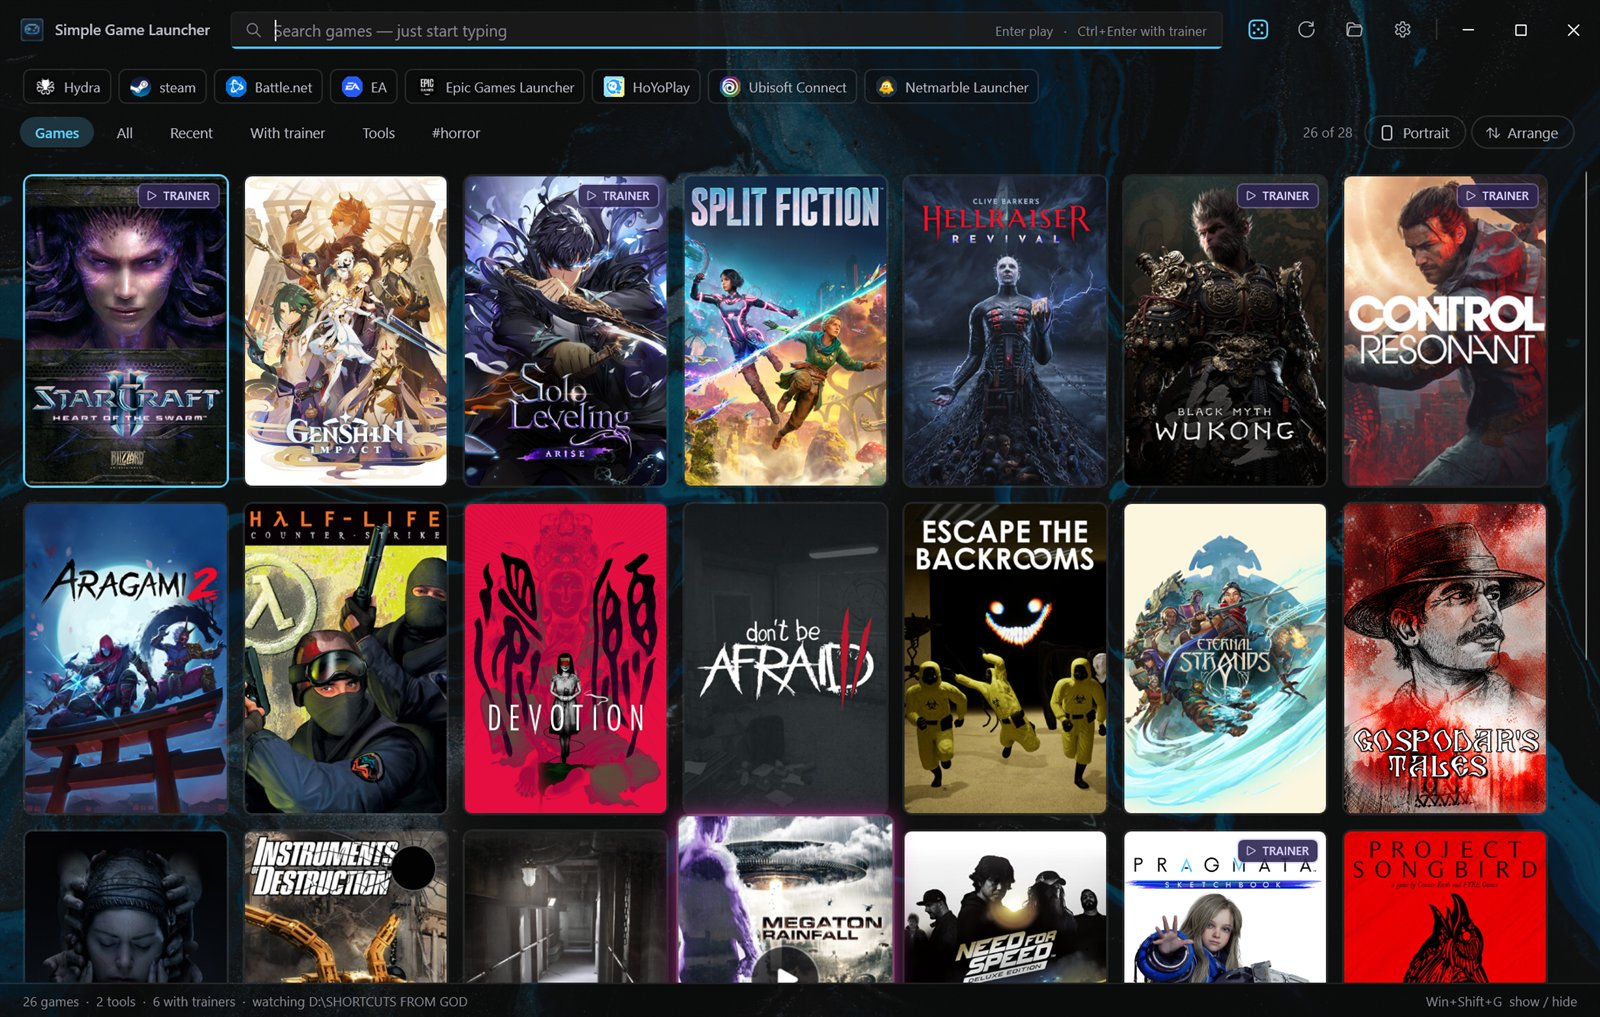
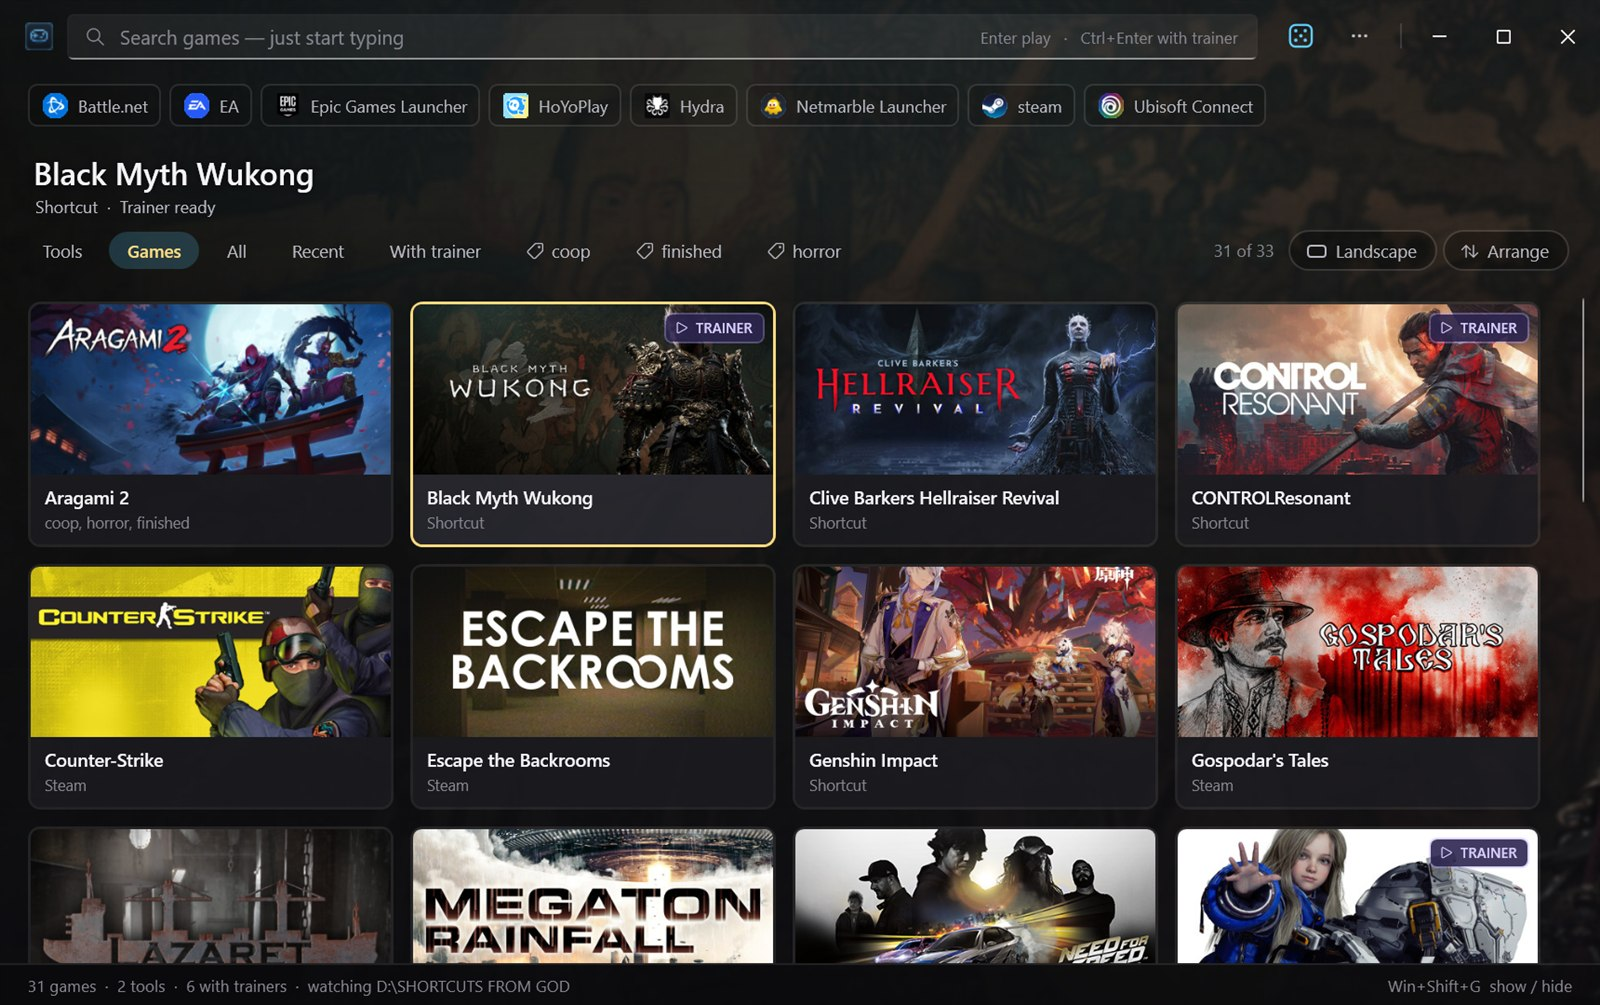
README tour with fresh screenshots; keep text readable over bright art
- README rewritten around the highlights: badges, "Why it rocks", what's
  new, and a tour with new screenshots of the game-art background,
  portrait cards, the ... menu, arrange mode and Settings -> Look.
- Bright hero art (e.g. Counter-Strike's yellow) is darkened by its
  measured brightness (HeroSoftShade), so the filters and search stay
  readable.
- The Landscape / Arrange chips get a dark tint for the same reason.

diff --git a/MainWindow.xaml b/MainWindow.xaml
@@ -117,13 +117,14 @@
             <Setter Property="Template">
                 <Setter.Value>
                     <ControlTemplate TargetType="Button">
-                        <Border x:Name="B" CornerRadius="14" Padding="12,5,13,5" Background="Transparent"
+                        <!-- Dark tint so the chips stay readable over bright hero art -->
+                        <Border x:Name="B" CornerRadius="14" Padding="12,5,13,5" Background="#47000000"
                                 BorderBrush="#1FFFFFFF" BorderThickness="1">
                             <ContentPresenter />
                         </Border>
                         <ControlTemplate.Triggers>
                             <Trigger Property="IsMouseOver" Value="True">
-                                <Setter TargetName="B" Property="Background" Value="#1AFFFFFF" />
+                                <Setter TargetName="B" Property="Background" Value="#33FFFFFF" />
                                 <Setter Property="Foreground" Value="{StaticResource TextBrush}" />
                             </Trigger>
                             <Trigger Property="IsPressed" Value="True">
@@ -511,11 +512,13 @@
                        RenderOptions.BitmapScalingMode="HighQuality" />
                 <Image x:Name="HeroB" Stretch="UniformToFill" VerticalAlignment="Top" Opacity="0"
                        RenderOptions.BitmapScalingMode="HighQuality" />
+                <!-- Extra shade for the blurred-cover fallback: a bright cover would otherwise wash out the text -->
+                <Rectangle x:Name="HeroSoftShade" Fill="#0E0E12" Opacity="0" />
                 <Rectangle>
                     <Rectangle.Fill>
                         <LinearGradientBrush StartPoint="0,0" EndPoint="0,1">
                             <GradientStop Color="#800E0E12" Offset="0" />
-                            <GradientStop Color="#330E0E12" Offset="0.2" />
+                            <GradientStop Color="#4D0E0E12" Offset="0.2" />
                             <GradientStop Color="#9E0E0E12" Offset="0.55" />
                             <GradientStop Color="#D90E0E12" Offset="1" />
                         </LinearGradientBrush>

diff --git a/MainWindow.xaml.cs b/MainWindow.xaml.cs
@@ -2526,6 +2526,9 @@ namespace GameLauncher
                 Animate(HeroLayer, OpacityProperty, 0, 300, ease);
                 return;
             }
+            // Bright art (a yellow Counter-Strike hero, a light cover blur) would wash out the text over it:
+            // the brighter the picture, the more extra shade.
+            Animate(HeroSoftShade, OpacityProperty, Math.Clamp((Brightness(img) - 0.22) * 1.5, 0, 0.62), 380, ease);
             var (front, back) = _heroFrontA ? (HeroA, HeroB) : (HeroB, HeroA);
             bool layerWasHidden = HeroLayer.Opacity < 0.01;
             back.Source = img;
@@ -2541,6 +2544,31 @@ namespace GameLauncher
             }
             _heroFrontA = !_heroFrontA;
             Animate(HeroLayer, OpacityProperty, 1, 300, ease);
+        }
+
+        static readonly System.Runtime.CompilerServices.ConditionalWeakTable<ImageSource, object> Brightnesses = new();
+
+        /// <summary>Average brightness (0–1) of an image, from a 32 px wide copy. Cached per image.</summary>
+        static double Brightness(ImageSource img)
+        {
+            if (img is not System.Windows.Media.Imaging.BitmapSource src || src.PixelWidth == 0) return 0;
+            if (Brightnesses.TryGetValue(img, out var cached)) return (double)cached;
+            double result = 0;
+            try
+            {
+                double k = Math.Min(1, 32.0 / src.PixelWidth);
+                var small = new System.Windows.Media.Imaging.FormatConvertedBitmap(
+                    new System.Windows.Media.Imaging.TransformedBitmap(src, new ScaleTransform(k, k)), PixelFormats.Bgra32, null, 0);
+                int w = small.PixelWidth, h = small.PixelHeight;
+                var px = new byte[w * h * 4];
+                small.CopyPixels(px, w * 4, 0);
+                double sum = 0;
+                for (int i = 0; i < px.Length; i += 4) sum += 0.0722 * px[i] + 0.7152 * px[i + 1] + 0.2126 * px[i + 2];
+                result = sum / (w * h) / 255.0;
+            }
+            catch { }
+            Brightnesses.AddOrUpdate(img, result);
+            return result;
         }
 
         /// <summary>Glides the window's accent to a bright, readable version of the game's cover colour (or back to the

diff --git a/README.md b/README.md
@@ -1,8 +1,22 @@
 # Simple Game Launcher
 
-A small, native Windows 11 launcher for a folder of game shortcuts. Point it at a folder full of `.lnk` / `.url` shortcuts and it turns them into a searchable grid of cover-art tiles: no browser, no account, no library import.
+[![Latest release](https://img.shields.io/github/v/release/iosifv/simple-game-launcher?label=download&color=60CDFF)](https://github.com/iosifv/simple-game-launcher/releases/latest)
+![Windows 11](https://img.shields.io/badge/Windows-11-0078D4)
+![.NET 10](https://img.shields.io/badge/.NET-10-512BD4)
 
-![Simple Game Launcher: a grid of game covers with a launcher bar, filter tabs and the random-game dice](docs/screenshots/main.jpg)
+**Your game shortcuts, as a launcher that looks like it belongs on a gaming PC.** Point it at a folder of `.lnk` / `.url` shortcuts and it becomes a fast, searchable wall of cover art. The window takes on the look of whatever game you're pointing at. No account, no store, no library import, no background services: one small exe.
+
+![Black Myth Wukong in focus: its artwork fills the window, its name sits above the filters and the highlights turn gold](docs/screenshots/main.jpg)
+
+## Why it rocks
+
+- 🎨 **Every game sets the mood.** Point at a game and the whole window fades to its Steam artwork, its name appears above the filters, and every highlight takes the colour of its cover.
+- ⚡ **Start typing, press Enter, you're playing.** Search by name, initials (`bmw` → Black Myth Wukong), tag or folder. A global hotkey brings it up from anywhere.
+- 🖼 **Cover art finds itself.** Steam, the Microsoft Store and GOG are searched for you, in landscape or portrait. Or pick your own art for each game.
+- 🃏 **Cards that feel alive.** They lift, glow in their own colours and show a ▶ play button. The rest of the grid dims into a spotlight.
+- 🎲 **Can't decide?** Roll the dice and let it pick.
+- 🧰 **Trainers built in.** Ctrl+Enter starts a game together with its trainer.
+- 🪶 **Light and native.** WPF on .NET 10, Windows 11 Mica, dark everywhere (even the tray menu). It never changes your shortcut files.
 
 ## Download
 
@@ -16,57 +30,65 @@ To update, replace `GameLauncher.exe` with the new one. Your settings, covers an
 
 ## What's new
 
-- **New look:** point at or select a game and the window fills with its Steam artwork, its name shows above the filters, the highlight colour follows its cover, and the other cards dim a little (spotlight). The title bar is tidier, with settings, rescan and open folder under a ⋯ menu. Each of them can be switched off in Settings → Look.
-- **Hide games** you don't want to see (right-click → Hide). They move to a **Hidden** filter, where Show again brings them back. The shortcut file stays where it is.
-- **Delete…** (right-click a game or launcher) moves the shortcut to the Recycle Bin after asking.
-- **Remembers where the window was**: same monitor, same size, or maximized, also with several monitors.
-- Tag filters show a **tag icon**.
-- **Play button on hover:** point at a game and a ▶ button appears. Click to play, Ctrl+click to play with the trainer.
-- **Random game dice** in the title bar: it rolls across your games and lands on one. Pick its colour in Settings.
-- **Card spacing** slider and **scroll one row at a time** (smooth mouse-wheel scrolling).
-- **Turn trainers off** completely, and **turn hover tips off**, from Settings.
-- **Any shortcut in the `z` folder** now works as a trainer, not just `.exe` files.
-- **Dark tray menu**, and launchers can be reordered in Arrange mode.
+- **A new look.** The game you point at (or select) fills the window with its artwork and puts its name above the filters. The accent colour follows its cover. Very bright artwork is toned down automatically so text stays readable.
+- **Spotlight:** the other cards dim while you point at one. You choose how much (10–90%).
+- **Compact title bar:** just search, the dice and a **⋯** menu for settings, rescan, open folder and exit.
+- **Smoother play button:** its colour fades in and out.
+- Every part of the new look has its own switch in **Settings → Look**. Turn them all off for the classic look.
 
-## Features
+Earlier in 1.0.4: hide games, Delete to the Recycle Bin, window position remembered per monitor, tag icons.
 
-**Your games, at a glance**
-- **Cover art found for you.** Steam art for Steam games; for everything else the Microsoft Store (Xbox) and GOG are searched by name. Covers are cached locally.
-- **Find cover online…** (right-click a game → Cover): search Steam, the Microsoft Store and GOG yourself, preview the results and pick a landscape and a portrait image separately. Or use any image file.
-- **Landscape or portrait cards**, switched with one click, with or without names under them.
-- **Tiles without a cover** get a soft glow in the colours of the game's icon.
-- **Hover effect:** the card lifts, a light sweeps across it, it glows in the cover's own colours and a ▶ play button pops up.
-- **Game art in the background:** the game you point at or select fills the window with its wide Steam artwork (or a soft blur of its cover), and the accent colour follows it.
-- **Spacing** between cards is adjustable, and the mouse wheel can **scroll one row at a time**.
+## A tour
 
-![Portrait cards with names, Steam library art and an automatic Microsoft Store cover for Genshin Impact](docs/screenshots/portrait-cards.jpg)
+### Every game sets the mood
 
-**Find and start games fast**
-- **Just start typing** to search by name, initials (`bmw` → Black Myth Wukong), tag or folder. Enter plays.
-- **Can't decide?** The dice in the title bar picks a random game from the filter you're on (and can start it for you).
-- **Launcher bar** with your store apps (Steam, Epic, EA, Battle.net, …) from a `Launchers` subfolder.
-- **Filters:** Games, All, Recent, With trainer, one tab per subfolder (e.g. `Tools`), one per tag, and Hidden.
-- **Global hotkey** (default `Win+Shift+G`) and a dark tray icon menu: the launcher is always one keypress away.
-- **Live folder watching:** add, remove or rename a shortcut and the grid updates within a second.
+Pointing at a game (or selecting it with the keyboard) fades the background to its wide Steam artwork. Games that aren't on Steam get a soft blur of their cover instead. The highlight colour glides to match the cover. Portrait cards use Steam's tall library art:
 
-**Make it yours**
+![Portrait cards with Hellraiser Revival in focus: its artwork behind the grid and a purple accent](docs/screenshots/portrait-cards.jpg)
+
+### Cards that feel alive
+
+- The card **lifts with a little spring**, a light **sweeps** across it and it **glows in its own colours**.
+- A **▶ play button** pops in: click to play, Ctrl+click to play with the trainer.
+- **Spotlight** dims the rest of the grid so the game you're pointing at stands out.
+- Cards without any cover get a soft glow in the colours of the game's icon.
+
+### A title bar that stays out of the way
+
+Search, the random-game dice and one **⋯** menu. Everything else is a click away (and Ctrl+, / F5 still work):
+
+![The ⋯ menu: Settings, Rescan folder, Open shortcuts folder, Exit](docs/screenshots/more-menu.jpg)
+
+### Make it yours
+
 - **Arrange mode:** drag games, filter tabs and launchers into your own order. Alt+arrows nudge, Reset puts everything back A–Z.
-- **Tags** with a one-click tag editor.
-- **Hide** games without deleting anything: they only show up under the Hidden filter. **Delete…** sends a shortcut to the Recycle Bin (after asking).
-- The window opens where you left it, on the same monitor, at the same size or maximized.
-- **Wallpapers** per filter, with dim and blur. Adjustable card size, Mica window, start with Windows.
-- **Hover tips** (game names, play and trainer hints, button descriptions) can be switched off.
+- **Tags** with a one-click editor. Each tag becomes its own filter, shown with a tag icon.
+- **Hide** games you don't want to see. They only show up under the **Hidden** filter, and **Show again** brings them back. **Delete…** moves a shortcut to the Recycle Bin, after asking.
+- **Landscape or portrait cards**, card size, spacing and names under the cards, all adjustable.
+- **Wallpapers** per filter, with dim and blur.
+- The window reopens **where you left it**: same monitor, same size, or maximized, even with several monitors.
 
 ![Arrange mode: drag handles on every game, filter tab and launcher](docs/screenshots/arrange.jpg)
 
-**Trainers**
-- Put trainers in a `z` subfolder: `.exe` files with "trainer" in the name, or any shortcut (`.lnk` / `.url`), for example to a companion tool. They're matched to games by name and get a TRAINER badge.
+| Look: art, accent, spotlight, title bar | Cards, spacing, scrolling and the dice | General: trainers, tips and more |
+| --- | --- | --- |
+| ![Settings → Look: game art in the background, accent colour from the game, spotlight with a dim slider, compact title bar](docs/screenshots/settings-look.jpg) | ![Settings: card size, shape, spacing, one-row scrolling and the random-game dice colour](docs/screenshots/settings.jpg) | ![Settings: games folder, hotkey, use trainers, trainer delay, show tips and other options](docs/screenshots/settings-general.jpg) |
+
+### Find and start games fast
+
+- **Just start typing** to search. Enter plays, Ctrl+Enter plays with the trainer.
+- **The dice** picks a random game from the filter you're on (and can start it for you). Pick its colour in Settings.
+- **Launcher bar** with your store apps (Steam, Epic, EA, Battle.net, …) from a `Launchers` subfolder.
+- **Filters:** Games, All, Recent, With trainer, one per subfolder (e.g. `Tools`), one per tag, and Hidden.
+- **Global hotkey** (default `Win+Shift+G`) and a dark tray menu.
+- **Live folder watching:** add, remove or rename a shortcut and the grid updates within a second.
+- The mouse wheel can **scroll one row at a time**.
+
+### Trainers
+
+- Put trainers in a `z` subfolder: `.exe` files with "trainer" in the name, or any shortcut (`.lnk` / `.url`). They're matched to games by name and get a TRAINER badge.
 - **Ctrl+Enter** (or Ctrl+click on ▶) starts the game, then the trainer after a delay you choose.
 - Don't use trainers? Switch them off in Settings: the badges, the "With trainer" filter and the trainer menus disappear.
-
-| Cards, spacing, scrolling and the dice | General: trainers, tips and more |
-| --- | --- |
-| ![Settings: card size, shape, spacing, one-row scrolling and the random-game dice colour](docs/screenshots/settings.jpg) | ![Settings: games folder, hotkey, use trainers, trainer delay, show tips and other options](docs/screenshots/settings-general.jpg) |
 
 ## Folder layout it understands
 
@@ -80,17 +102,17 @@ My Games Folder\
                              (Tools is excluded from the Games filter)
 ```
 
-Shortcuts themselves are never modified: the launcher only reads them.
+Shortcuts themselves are never modified: the launcher only reads them. The one exception is **Delete…**, which asks first and moves the file to the Recycle Bin.
 
-## Where cover art comes from
+## Where the artwork comes from
 
 | Source | Used for |
 | --- | --- |
-| Your own image | Always wins. Set per shape (landscape / portrait) from the tile's **Cover** menu. |
-| Steam | Steam games: the app id from a `steam://` link, otherwise an exact name match. |
+| Your own image | Always wins. Set per shape (landscape / portrait) from the tile's **Cover** menu, or search with **Find cover online…**. |
+| Steam | Steam games: the app id from a `steam://` link, otherwise an exact name match. Covers, tall library art and the wide background art. |
 | Microsoft Store, GOG | Games Steam doesn't have, by exact name. Also searchable in **Find cover online…**. |
 
-Epic doesn't allow outside apps to search its store, but many Epic games are also on the Microsoft Store and are found there.
+Epic doesn't allow outside apps to search its store, but many Epic games are also on the Microsoft Store and are found there. Everything downloaded is cached in `covers\` next to the exe.
 
 ## Keyboard
 
@@ -107,7 +129,7 @@ Epic doesn't allow outside apps to search its store, but many Epic games are als
 
 ## Data
 
-Everything the launcher remembers lives next to the exe: `launcher-data.json` (settings, tags, trainer choices, play history, custom order), `covers\` and `wallpapers\`. To move it to another PC, copy the folder.
+Everything the launcher remembers lives next to the exe: `launcher-data.json` (settings, tags, trainer choices, play history, custom order, hidden games), `covers\` and `wallpapers\`. To move it to another PC, copy the folder.
 
 ## Requirements
 
@@ -129,6 +151,6 @@ The published `app\GameLauncher.exe` is a single file. On first start it opens S
 Push a version tag and GitHub Actions builds the self-contained exe and publishes the release:
 
 ```powershell
-git tag v1.0.4
-git push origin v1.0.4
+git tag v1.0.6
+git push origin v1.0.6
 ```

diff --git a/CLAUDE.md b/CLAUDE.md
@@ -52,7 +52,7 @@ dotnet publish -c Release -r win-x64 --self-contained false `
 - **Trainers on/off** (`Settings.TrainersEnabled`): when off, `AssignTrainers` clears every `GameItem.Trainer`, so `HasTrainer` is false everywhere (no badges, no "With trainer" tab from `DefaultTabs()`, Ctrl+Enter plays normally); `ApplyTrainerUi` hides the trainer settings row (`TrainerVis` resource) and search hint, and `Tile_ContextMenuOpening` hides the trainer menu items.
 - **Window placement** (`// ---------- window placement ----------`): multi-monitor aware via Win32 `GetWindowPlacement` / `SetWindowPlacement` (`Native.GetNormalBounds` / `SetNormalBounds`). `Settings.WindowBounds` = normal bounds in real screen pixels (identifies the monitor, even with mixed scaling), `Settings.Maximized` = state; saved on move / resize / state change and on close. `ApplySavedPlacement` runs in `OnSourceInitialized` (handle exists, nothing shown yet), sets the bounds only if the title bar lies on a connected monitor (`MonitorFromRect`), then maximizes on that monitor if needed; otherwise the window opens centred at `Settings.Width/Height`. Don't go back to WPF `Left`/`Top` (DIPs drift between monitors with different scaling).
 - **Look** (`// ---------- look: … ----------`, Settings → Look, each its own switch): the *game in focus* is the hovered card (`_hoverGame`, cleared only when the pointer leaves `GamesList`), else the selection; `FocusSoon` debounces into `UpdateFocusLook`.
-  - `Settings.HeroBackground`: `HeroLayer` (two images cross-faded by `ShowHero`, under a dark gradient) shows Steam's `library_hero` (`Covers.EnsureSteamHero`, cached `covers\steam_{id}_hero.jpg`), else the cover's 24 px `CoverFill` stretched up; it sits above the per-filter wallpaper. `HeroInfo` (fixed height, under the launcher bar) shows the name.
+  - `Settings.HeroBackground`: `HeroLayer` (two images cross-faded by `ShowHero`, under a dark gradient) shows Steam's `library_hero` (`Covers.EnsureSteamHero`, cached `covers\steam_{id}_hero.jpg`), else the cover's 24 px `CoverFill` stretched up; it sits above the per-filter wallpaper. `HeroSoftShade` darkens bright art by its measured `Brightness` so text stays readable (the filter-row chips also have a dark tint for this). `HeroInfo` (fixed height, under the launcher bar) shows the name.
   - `Settings.AccentFromGame`: `MainWindow` has its own `AccentBrush` resource (shadows App's) and **every use in MainWindow.xaml must be `DynamicResource`**. Styles freeze brushes, so `AccentTick` swaps in a new frozen brush per frame instead of animating one. `ReadableAccent` keeps it bright; `GlowColor` falls back to `DefaultAccent`, not the window accent.
   - `Settings.Spotlight`: `Spotlight(item)` fades every other card's `ListBoxItem` to `SpotlightOpacity` (1 − `Settings.SpotlightDim` %, the "Dim others" slider, 10–90) on hover; `Spotlight(null)` restores them (leaving the grid, entering arrange mode, window deactivated). Don't use the `Card` opacity for it — dragging uses that.
   - `Settings.CompactHeader`: `ApplyHeaderLook` hides `AppTitle`, `RefreshBtn`, `FolderBtn`, `SettingsBtn` and shows `MoreBtn` (⋯ menu: settings, rescan, open folder, exit). All three off = the original look.
